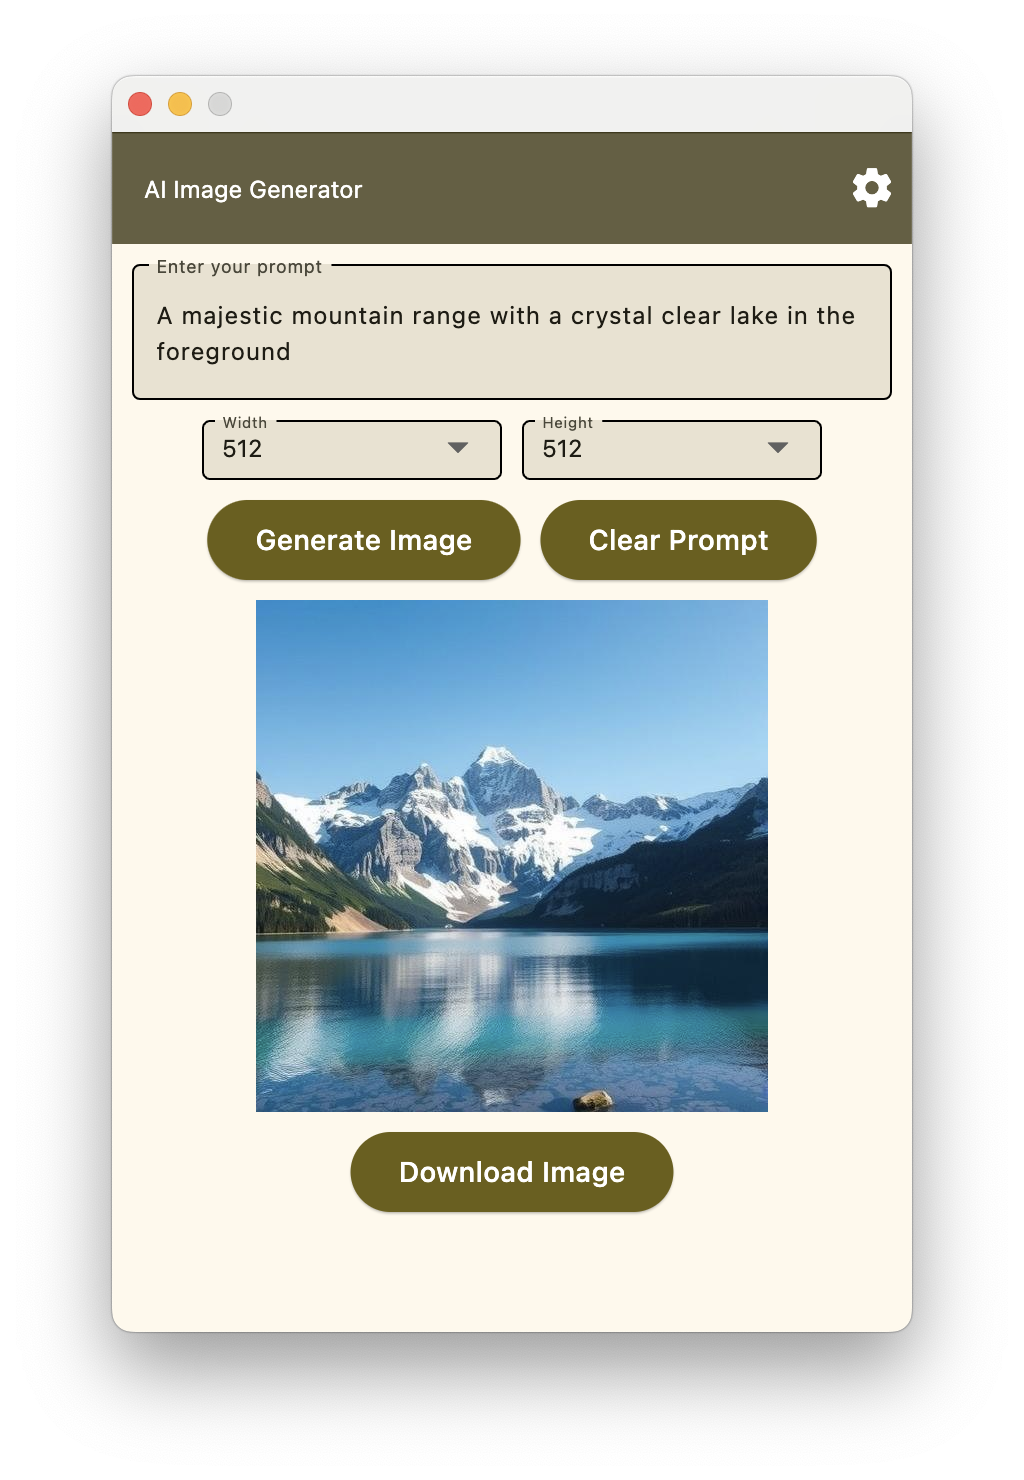
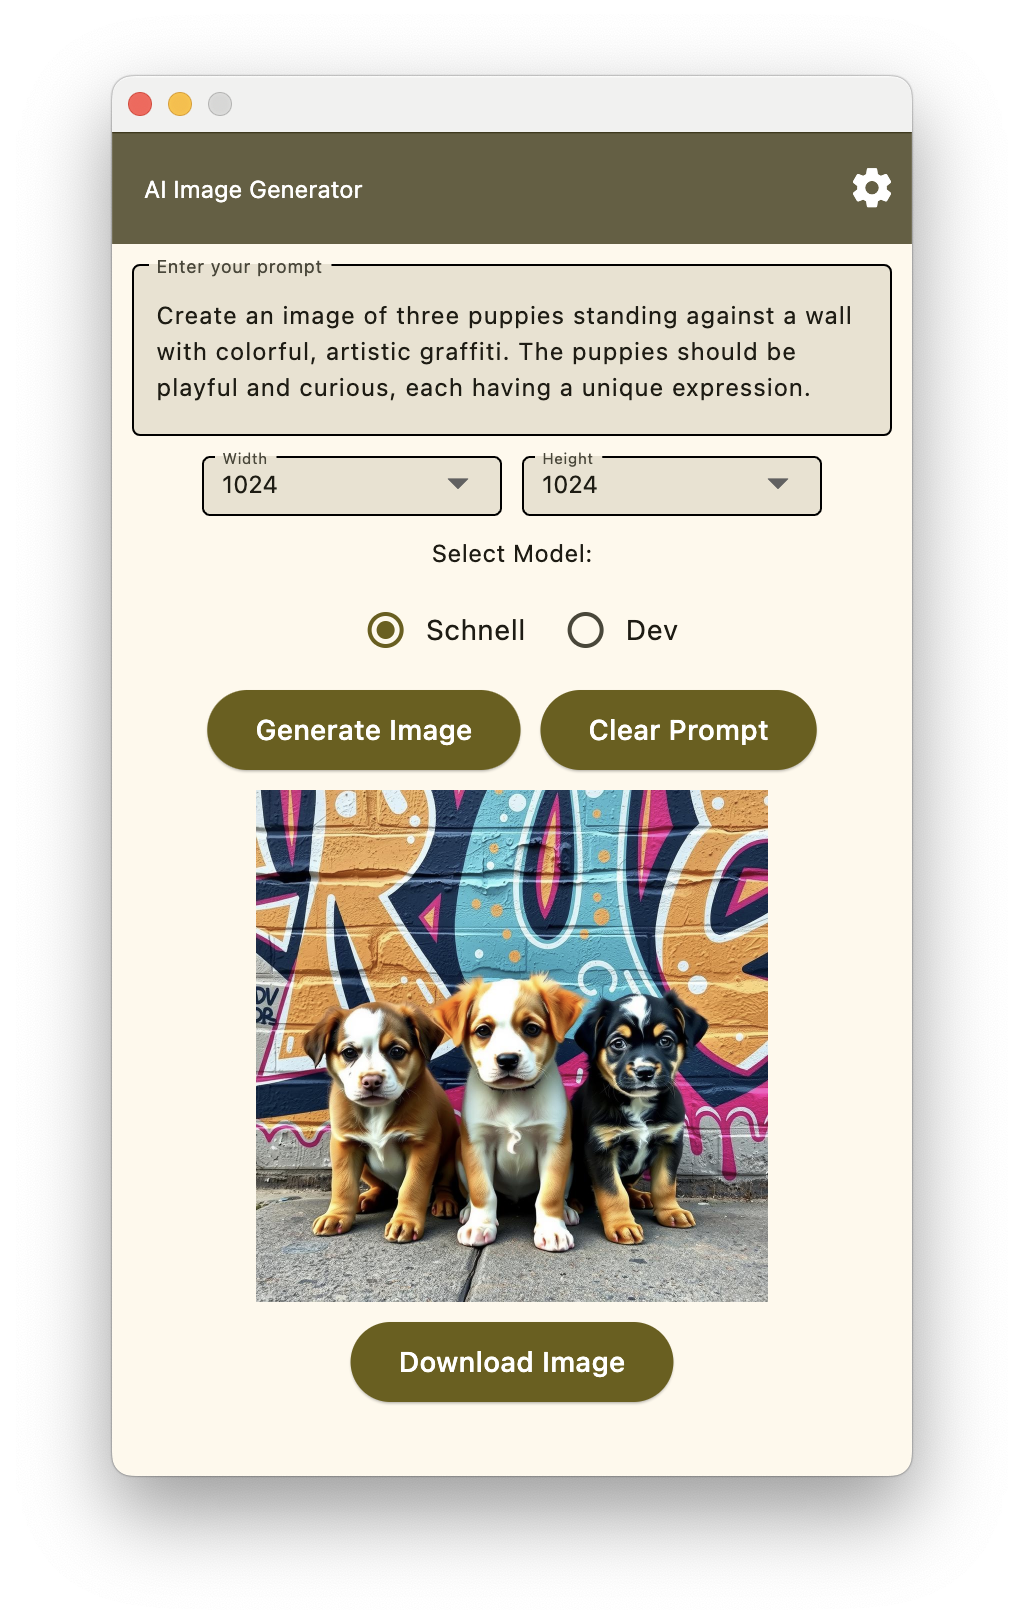
Replaced API key management to use Fernet instead of Keyring

diff --git a/README.md b/README.md
@@ -1,8 +1,14 @@
 # AI Image Generator
 
-This AI image generator is built using Python and Flet, utilizing the Flux.1 model, including both the ‘dev’ and ‘schnell’ variants, served via the DeepInfra API. To use it, you will need a DeepInfra API key. Currently, it is only compatible with macOS.
+This simple AI image generator is built using Python and Flet, utilizing the Flux.1 model, including both the ‘dev’ and ‘schnell’ variants, served via the DeepInfra API. To use it, you will need a DeepInfra API key. Currently, it is only compatible with macOS.
 
 ## Getting Started
+
+### Download
+
+Go to [releases](https://github.com/nasoma/image-generator/releases) and download the latest zip archive.
+
+
 
 ### Obtain DeepInfra API Key:
 
@@ -11,7 +17,7 @@ This AI image generator is built using Python and Flet, utilizing the Flux.1 mod
 
 ### Configure the API Key:
 
-1. Navigate to setting page by clicking on the setting icon (cog wheel).
+1. Navigate to the settings page by clicking on the settings icon (cog wheel).
 2. Paste your API key.
 3. Save and exit the settings page.
 
@@ -28,10 +34,11 @@ This AI image generator is built using Python and Flet, utilizing the Flux.1 mod
 - User-friendly interface built with Flet.
 - Integration with DeepInfra API for image generation.
 - Support for Flux.1 model variants (`dev` and `schnell`).
+- Light and dark mode support.
 
 ### Example
 
-- **Prompt**: A majestic mountain range with a crystal clear lake in the foreground.
+- **Prompt**: Create an image of three puppies standing against a wall with colorful, artistic graffiti. The puppies should be playful and curious, each having a unique expression.
 - **Output**:  
   ![Generated Image](./outputimage.png)
 
